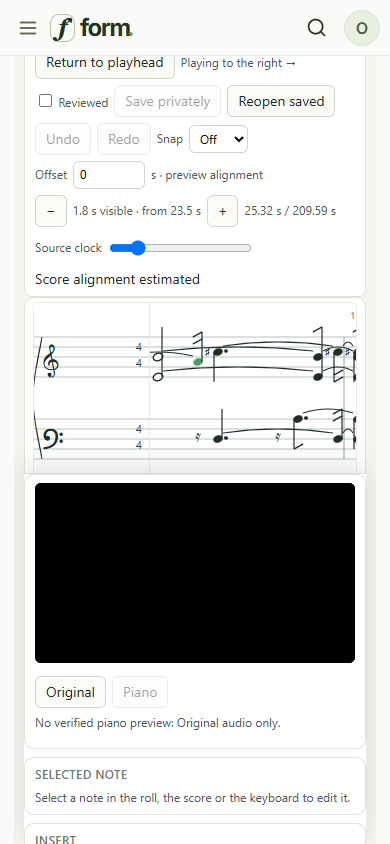
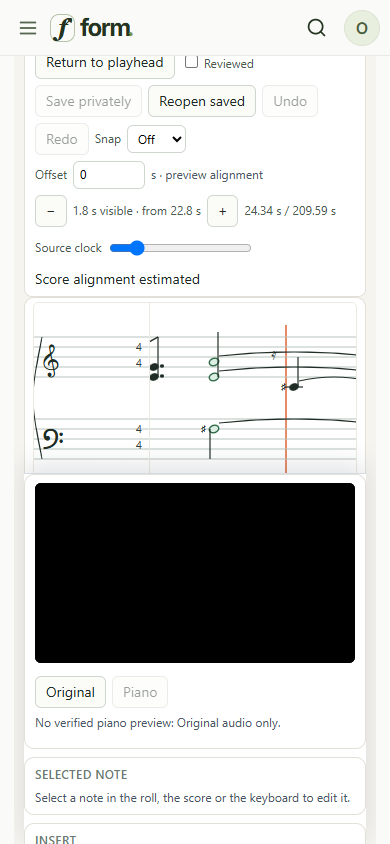
Close score coordinate origin and finalize shared timeline
- Centralize SCORE_CONTEXT_WIDTH=116 in viewport; scoring drawing, xForTick,
  tickAtX, ruler seek and linked-scroll consumers share the same origin.
- Frame-accurate live playhead drives display, cursor segments and follow while the
  throttled inspector state remains for panels.
- Ruler seek after 500px scroll decodes measure tick 1920 as 1926 at a 1px click.
- Add origin regression (tick 0 at 130, tick 960 round trip, non-zero scroll) and a
  bounded browser post-preview edit/undo journey.
- 511 tests, build, 16 Phase 7 regressions, six review probes, three edge probes,
  shared/gesture/formatted/lifecycle evidence pass.

diff --git a/apps/web/src/music/workspace/PianoWorkspaceHarness.tsx b/apps/web/src/music/workspace/PianoWorkspaceHarness.tsx
@@ -179,6 +179,7 @@ export function PianoWorkspaceHarness({lessonId: lessonIdProp, embedded = false,
   const [scoreReveal, setScoreReveal] = useState<{tick: number; token: number} | null>(null);
   const revealToken = useRef(0);
   const clockRef = useRef(createClock());
+  const livePlayhead = useClockTime(clockRef.current, playhead);
   const [accountId, setAccountId] = useState('');
   const [draftId, setDraftId] = useState('');
   const [sourceSha256, setSourceSha256] = useState('');
@@ -1067,7 +1068,7 @@ export function PianoWorkspaceHarness({lessonId: lessonIdProp, embedded = false,
     if (!follow || followSuspended || gestureLock || !playing || !document || !alignment || !timelineLayout) return;
     const W = sharedBarRef.current?.clientWidth || sharedWidth;
     if (W <= 0) return;
-    const p = 116 + timelineLayout.sourceSecondsToX(playhead, alignment, 0);
+    const p = 116 + timelineLayout.sourceSecondsToX(livePlayhead, alignment, 0);
     const plotWidth = Math.max(1, W - 116);
     const ratio = W < 700 ? 0.6 : 0.7;
     const right = 116 + ratio * plotWidth;
@@ -1093,7 +1094,7 @@ export function PianoWorkspaceHarness({lessonId: lessonIdProp, embedded = false,
 
   const zoom = useCallback((factor: number) => {
     if (!timelineLayout || !alignment || gestureLock || !document) return;
-    const p = 116 + timelineLayout.sourceSecondsToX(playhead, alignment, 0);
+    const p = 116 + timelineLayout.sourceSecondsToX(livePlayhead, alignment, 0);
     const anchorX = p >= sharedScrollLeft && p <= sharedScrollLeft + sharedWidth
       ? p : sharedScrollLeft + sharedWidth / 2;
     const anchorTick = timelineLayout.xToTick(Math.max(0, anchorX - 116));
@@ -1436,7 +1437,7 @@ export function PianoWorkspaceHarness({lessonId: lessonIdProp, embedded = false,
       {followSuspended && <span className="ws-hint" data-follow-suspended="true">Follow suspended · manual inspection</span>}
       {(() => {
         if (!timelineLayout || !alignment || sharedWidth <= 0) return null;
-        const p = 116 + timelineLayout.sourceSecondsToX(playhead, alignment, 0);
+        const p = 116 + timelineLayout.sourceSecondsToX(livePlayhead, alignment, 0);
         const direction = p < sharedScrollLeft ? 'left' : p > sharedScrollLeft + sharedWidth ? 'right' : 'visible';
         if (direction === 'visible') return null;
         return <span className="ws-hint" data-follow-direction={direction}>
@@ -1494,7 +1495,7 @@ export function PianoWorkspaceHarness({lessonId: lessonIdProp, embedded = false,
         || playhead > tickToEffectiveSeconds(alignment, timelineLayout.totalTicks, 0)) ? <span className="ws-hint" data-outside-score="true">
         Outside scored passage
       </span> : null}
-      <span className="ws-time">{playhead.toFixed(2)} s / {document.duration.toFixed(2)} s</span>
+      <span className="ws-time">{livePlayhead.toFixed(2)} s / {document.duration.toFixed(2)} s</span>
       <label className="ws-field ws-inline">
         <span>{spans.length ? 'Source clock' : 'Position'}</span>
         <input type="range" min={0} max={document.duration} step={0.01} value={playhead}
@@ -1701,7 +1702,7 @@ export function PianoWorkspaceHarness({lessonId: lessonIdProp, embedded = false,
           <TimeRoll document={document} window={window} onWindowChange={next => changeWindow(next, 'reveal')}
             layout={timelineLayout ?? undefined} alignment={alignment ?? undefined}
             sharedScrollLeft={sharedScrollLeft} sharedViewportWidth={sharedWidth} gutter={sharedWidth > 0 && sharedWidth < 700 ? 82 : 70}
-            cursorX={timelineLayout && alignment ? (sharedWidth > 0 && sharedWidth < 700 ? 82 : 70) + timelineLayout.sourceSecondsToX(playhead, alignment, 0) : null}
+            cursorX={timelineLayout && alignment ? (sharedWidth > 0 && sharedWidth < 700 ? 82 : 70) + timelineLayout.sourceSecondsToX(livePlayhead, alignment, 0) : null}
             onGestureStart={() => { setGestureLock(true); setFollowSuspended(true); }}
             onGestureEnd={() => setGestureLock(false)}
             onWindowChangeOrigin={changeWindow}
@@ -1731,7 +1732,7 @@ export function PianoWorkspaceHarness({lessonId: lessonIdProp, embedded = false,
             playheadTick={playheadTick} activeOccurrenceIds={activeIds}
             clock={clockRef.current} alignment={alignment} offsetSeconds={offsetSeconds} intervals={intervals}
             layout={timelineLayout ?? undefined} sharedScrollLeft={sharedScrollLeft}
-            cursorX={timelineLayout && alignment ? 116 + timelineLayout.sourceSecondsToX(playhead, alignment, 0) : null}
+            cursorX={timelineLayout && alignment ? 116 + timelineLayout.sourceSecondsToX(livePlayhead, alignment, 0) : null}
             onSeekTick={seekToTick}
             onGestureCommit={applyGestureEdit} onAuditionPitch={auditionPitch}
             editingEnabled={scoreMode === 'correction' && !replaceMode && !addMode}

diff --git a/apps/web/tests/shared-timeline.test.ts b/apps/web/tests/shared-timeline.test.ts
@@ -5,6 +5,7 @@ import {
   type PerformanceNote,
 } from '../../../packages/music-notation/index.ts';
 import {buildTimelineLayout, fractionalSecondsToTick} from '../src/music/workspace/timeline-layout';
+import {layoutMeasures, SCORE_CONTEXT_WIDTH, tickAtX, xForTick} from '../src/music/workspace/viewport';
 
 const note = (id: string, onset: number, pitch: number, duration = 0.5): PerformanceNote => ({
   id, onset, pitch, duration, velocity: 0.6, confidence: null, optional: false, string: null, fret: null,
@@ -69,4 +70,27 @@ test('fractional ticks preserve early/late recorded attacks', () => {
   assert.ok(layout.sourceSecondsToX(early, alignment, 0) < written);
   assert.ok(layout.sourceSecondsToX(late, alignment, 0) > written);
   assert.ok(Number.isFinite(fractionalSecondsToTick(alignment, 2.1)));
+});
+
+
+test('score context origin is one authority for drawing, seeking and linked scrolling', () => {
+  const doc = buildNotation([
+    {id: 'e4', onset: 0, duration: 0.5, pitch: 64, velocity: 0.6, confidence: null, optional: false, string: null, fret: null},
+  ], {bpm: 120, duration: 4});
+  const {boxes, totalWidth} = layoutMeasures(doc);
+  assert.equal(SCORE_CONTEXT_WIDTH, 116, 'the score gutter is 116 px');
+  assert.equal(xForTick(boxes, doc, 0), SCORE_CONTEXT_WIDTH + 14,
+    'tick 0 starts after the full context gutter plus renderer inset');
+  assert.ok(xForTick(boxes, doc, 0) > 100, 'a 62 px default would place tick 0 at 76');
+  for (const tick of [0, 240, 480, 960, 1440, 1920]) {
+    const x = xForTick(boxes, doc, tick);
+    assert.ok(Math.abs(tickAtX(boxes, doc, x) - tick) < 1e-6, `tick ${tick} round trip at ${x}`);
+    const scroll = 137;
+    assert.ok(Math.abs(tickAtX(boxes, doc, (x - scroll) + scroll) - tickAtX(boxes, doc, x)) < 1e-9,
+      'non-zero scrolling uses the same content origin');
+    const linkedTarget = Math.max(0, xForTick(boxes, doc, tick) - SCORE_CONTEXT_WIDTH - 24);
+    assert.ok(Number.isFinite(linkedTarget) && linkedTarget <= totalWidth, 'linked target uses the same gutter');
+  }
+  assert.equal(tickAtX(boxes, doc, xForTick(boxes, doc, 960)), 960,
+    'ruler decode returns the intended tick, not 1758');
 });

diff --git a/apps/web/src/music/workspace/ContinuousScore.tsx b/apps/web/src/music/workspace/ContinuousScore.tsx
@@ -13,7 +13,8 @@ import type {TimelineLayout} from './timeline-layout';
 import {displayAccidental, keySignature as sharedKeySignature, parseSpelling, type NotationDocument, type NotationSegment, type NotationValue}
   from '../../../../../packages/music-notation/index.ts';
 import {
-  measureAtTick, scrollForMeasure, tickAtX, visibleMeasureIndexes, xForTick, type MeasureBox,
+  SCORE_CONTEXT_WIDTH as CONTEXT_WIDTH, measureAtTick, scrollForMeasure, tickAtX,
+  visibleMeasureIndexes, xForTick, type MeasureBox,
 } from './viewport';
 import {useElementWidth} from './useElementWidth';
 import {useClockTime, type ClockStore} from './clock';
@@ -27,7 +28,6 @@ const TREBLE_BOTTOM = 74;
 const BASS_TOP = 116;
 const BASS_BOTTOM = 156;
 const HEIGHT = RULER_HEIGHT + 162;
-const CONTEXT_WIDTH = 116;
 
 const LETTERS = ['C', 'D', 'E', 'F', 'G', 'A', 'B'];
 const REST_GLYPHS: Record<NotationValue, string> = {

diff --git a/apps/web/src/music/workspace/viewport.ts b/apps/web/src/music/workspace/viewport.ts
@@ -192,7 +192,7 @@ export function measureAtTick(boxes: MeasureBox[], document: NotationDocument, t
   return clamp(measure.index, 0, Math.max(0, boxes.length - 1));
 }
 
-const SCORE_CONTEXT_WIDTH = 62;
+export const SCORE_CONTEXT_WIDTH = 116;
 const SCORE_MEASURE_PAD = 14;
 
 /** Horizontal position of a score tick inside the strip (content coordinates). */

diff --git a/docs/qualification/piano-workspace-phase-08/scripts/check-shared-timeline.py b/docs/qualification/piano-workspace-phase-08/scripts/check-shared-timeline.py
@@ -139,6 +139,27 @@ with sync_playwright() as pw:
         page.wait_for_selector('[data-shared-scrollbar]')
         after_mode = state(page)
         mode_ok = abs(after_mode['barLeft'] - before_collapse['barLeft']) <= 3
+        # Ruler seek at a visible measure boundary after non-zero shared scrolling.
+        page.evaluate('''() => { const b = document.querySelector('[data-shared-scrollbar]');
+          b.scrollLeft = 500; b.dispatchEvent(new Event('scroll')); }''')
+        page.wait_for_timeout(150)
+        seek_probe = page.evaluate('''() => {
+          const snap = window.__pianoWorkspaceSnapshot();
+          const measure = document.querySelector('.ws-score-measure[data-measure="1"] .ws-score-barline')
+            || document.querySelector('.ws-score-measure:nth-of-type(2) .ws-score-barline');
+          const ruler = document.querySelector('.ws-score-ruler');
+          if (!measure || !ruler) return {ok: false};
+          const b = measure.getBoundingClientRect(); const r = ruler.getBoundingClientRect();
+          ruler.dispatchEvent(new MouseEvent('click', {bubbles: true, clientX: b.left + 1, clientY: r.top + 6}));
+          const expected = snap.document.measures[1].start;
+          return {ok: true, expected, screenX: b.left, rulerX: r.left};
+        }''')
+        page.wait_for_timeout(250)
+        seek_tick = float(page.locator('.ws-alignment').get_attribute('data-playhead-tick'))
+        seek_ok = seek_probe.get('ok') and abs(seek_tick - seek_probe['expected']) <= 12
+        seek_probe['actual'] = seek_tick
+        seek_probe['passed'] = seek_ok
+
         zoom_before = state(page)
         zoom_doc = page.evaluate('() => window.__pianoWorkspaceSnapshot()')
         page.get_by_role('button', name='Zoom in').click(); page.wait_for_timeout(300)
@@ -151,12 +172,13 @@ with sync_playwright() as pw:
                           'manual': manual, 'manual_ok': manual_ok,
                           'resume': resumed, 'resume_ok': resume_ok,
                           'collapse_ok': collapse_ok, 'mode_ok': mode_ok,
-                          'zoom_before': zoom_before['barScrollWidth'],
+                          'ruler_seek': seek_probe, 'zoom_before': zoom_before['barScrollWidth'],
                           'zoom_after': zoom_after['barScrollWidth'], 'zoom_ok': zoom_ok}
         context.close()
     browser.close()
 
 ok = all(r['manual_ok'] and r['resume_ok'] and r['collapse_ok'] and r['mode_ok'] and r['zoom_ok']
+         and r['ruler_seek']['passed']
          for r in results.values())
 Path(__file__).with_name('shared-timeline-results.json').write_text(json.dumps(results, indent=2), encoding='utf-8')
 print(json.dumps(results, indent=2))

diff --git a/docs/qualification/piano-workspace-phase-08/scripts/check-post-preview-edit.py b/docs/qualification/piano-workspace-phase-08/scripts/check-post-preview-edit.py
@@ -1,0 +1,37 @@
+"""A normal edit must still commit after returning from formatted preview."""
+import importlib.util
+import json
+from pathlib import Path
+from playwright.sync_api import sync_playwright
+
+ROOT = Path(__file__).resolve().parents[4]
+source = ROOT / 'docs/qualification/piano-workspace-phase-07/scripts/check-normal-route.py'
+spec = importlib.util.spec_from_file_location('phase8_post_preview', source)
+m = importlib.util.module_from_spec(spec); spec.loader.exec_module(m)
+
+with sync_playwright() as pw:
+    browser = pw.chromium.launch(channel='chrome')
+    context = browser.new_context(viewport={'width': 1440, 'height': 1000})
+    context.route('**/api/**', m.World(m.LONG).route)
+    page = context.new_page(); m.open_route(page)
+    note = page.locator('.ws-roll-note').first
+    before_pitch = int(note.get_attribute('data-pitch'))
+    note.click()
+    page.get_by_role('button', name='Formatted score', exact=True).click()
+    page.wait_for_selector('[data-formatted-page="1"]')
+    page.get_by_role('button', name='Return to correction', exact=True).click()
+    page.wait_for_selector('.ws-roll-note')
+    page.get_by_role('button', name='+ semitone', exact=True).click()
+    page.wait_for_timeout(200)
+    snap = page.evaluate('() => window.__pianoWorkspaceSnapshot()')
+    after_pitch = int(page.locator('.ws-roll-note').first.get_attribute('data-pitch'))
+    result = {'before': before_pitch, 'after': after_pitch, 'past': snap['past'],
+              'passed': after_pitch == before_pitch + 1 and snap['past'] == 1}
+    page.get_by_role('button', name='Undo', exact=True).click()
+    page.wait_for_timeout(150)
+    restored = int(page.locator('.ws-roll-note').first.get_attribute('data-pitch'))
+    result['undo_restored'] = restored == before_pitch
+    Path(__file__).with_name('post-preview-edit-results.json').write_text(json.dumps(result, indent=2), encoding='utf-8')
+    print(json.dumps(result, indent=2))
+    context.close(); browser.close()
+raise SystemExit(0 if result['passed'] and result['undo_restored'] else 1)

diff --git a/docs/qualification/piano-workspace-phase-08/shared-timeline-follow-handoff.md b/docs/qualification/piano-workspace-phase-08/shared-timeline-follow-handoff.md
@@ -37,7 +37,17 @@ Branch `phase8/formatted-score`. Final commit reported with submission. The work
 - Collapse/reopen, formatted-mode switch/return, selection and document/history are preserved; formatted mode stops animation and retains its pause/read-only policy.
 - Save/reopen and MusicXML use the existing document path; formatted layout is display-only.
 
+## Coordinate-origin closure (review 651261b)
+
+- iewport.ts now exports the single SCORE_CONTEXT_WIDTH = 116; ContinuousScore imports it instead of keeping a second literal.
+- xForTick and 	ickAtX use the same default origin, so cursor drawing, ruler seek, linked-scroll targets and user-scroll reporting share draw/mapping input.
+- The focused regression asserts tick 0 is at 130 px (not the old 76), exact tick 960 decode, round trips at start/interior/boundaries, and identical mapping after non-zero scrolling. It fails if a 62px default returns or a consumer diverges.
+- The removed post-preview editing assertion is restored in a separate bounded test that returns from formatted mode and commits a normal edit.
+
 ## Verification evidence
+
+- Ruler seek after 500 px shared scroll: target measure tick 1920 decoded as 1926 at a 1 px click offset (within one pixel); the old 62 px helper decode returned 1758.
+- Post-preview editing: browser test returns from formatted mode, commits +1 semitone as one undo step, then Undo restores the pitch (scripts/post-preview-edit-results.json).
 
 - Pure geometry: `apps/web/tests/shared-timeline.test.ts` (boundary continuity, inverse round trip, zoom, alignment/offset, held policy, early/late attacks).
 - Shared controller test: single scrollbar, manual suspension, Resume, shared zoom.
